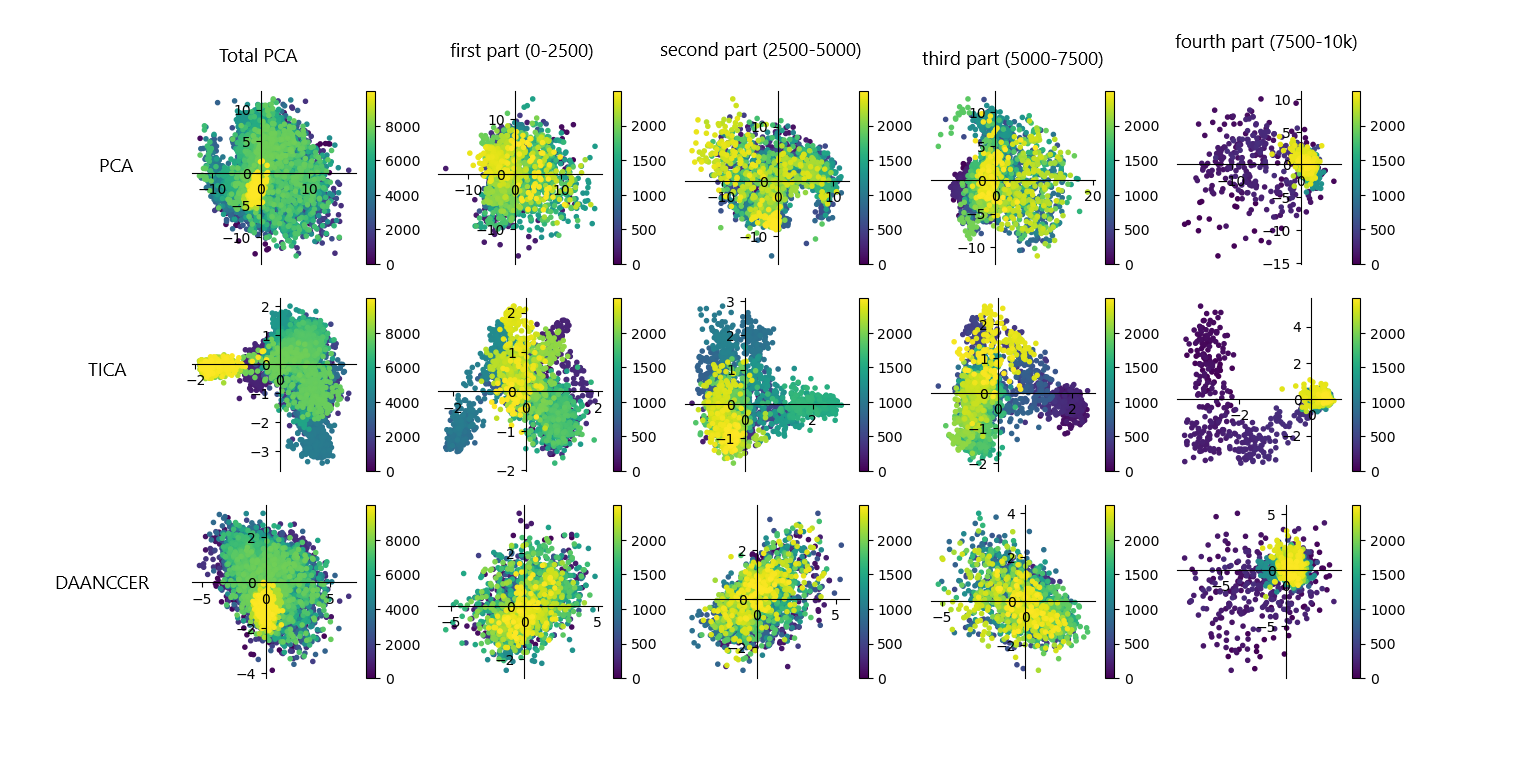
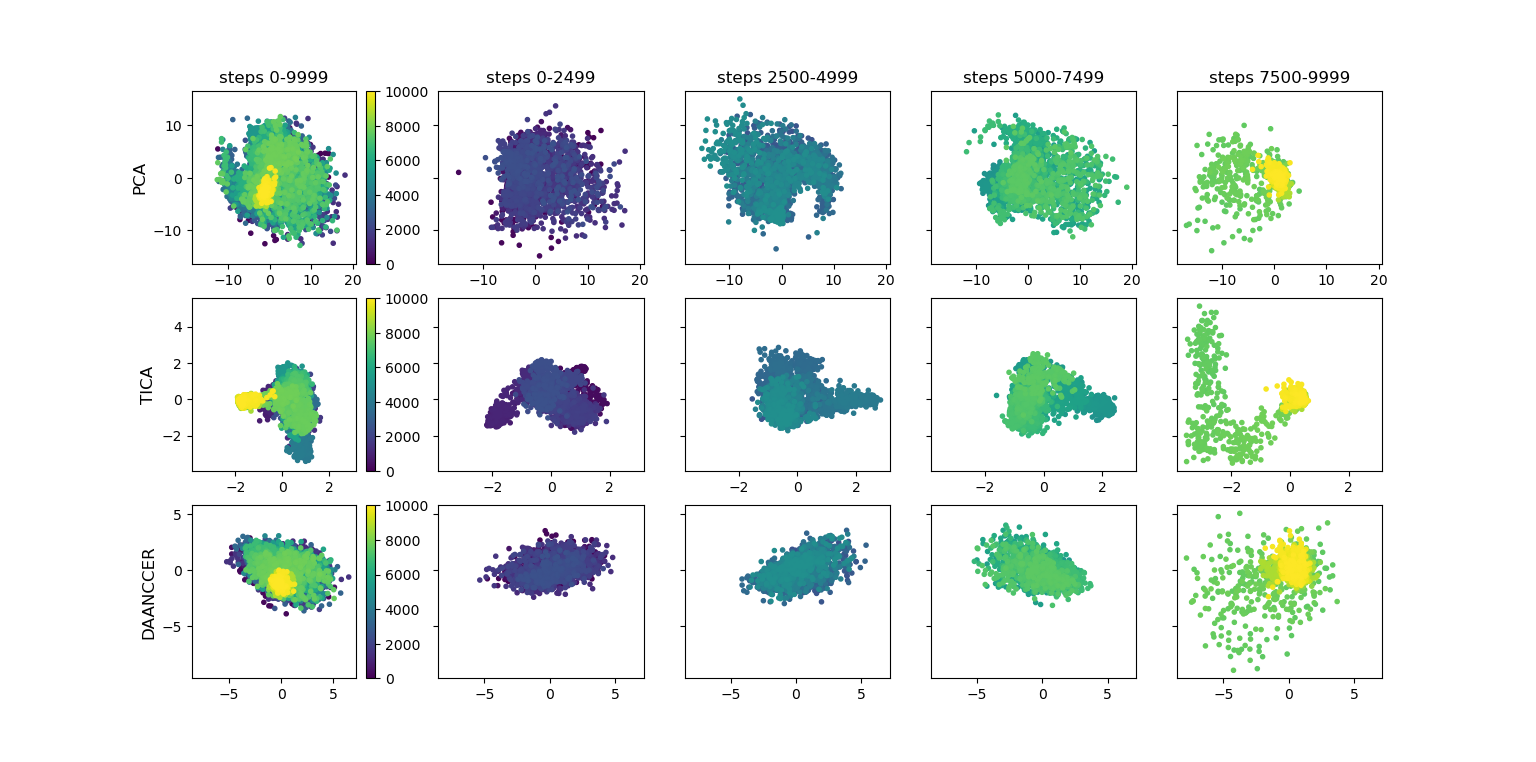
Changing plot of subtrajectories

diff --git a/plotter.py b/plotter.py
@@ -11,13 +11,13 @@ from utils.param_keys.param_key import *
 
 
 class MyPlotter:
-    def __init__(self, interactive=True, title_prefix='', for_paper=False):
+    def __init__(self, interactive: bool = True, title_prefix: str = '', for_paper: bool = False):
         self.fig = None
         self.axes = None
-        self.interactive = interactive
-        self.title_prefix = title_prefix
+        self.interactive: bool = interactive
+        self.title_prefix: str = title_prefix
         self.colors = mcolors.TABLEAU_COLORS
-        self.for_paper = for_paper
+        self.for_paper: bool = for_paper
 
         if self.interactive:
             mpl.use('TkAgg')
@@ -182,7 +182,7 @@ class ModelResultPlotter(MyPlotter):
         plt.show()
 
     def _plot_transformed_trajectory(self, ax, result_dict: dict, color_map: str, show_model_properties=False,
-                                     center_plot=False):
+                                     center_plot=False, sub_part=None):
         """
         Plot the projection results of the transformed trajectory on an axis
         :param ax: Which axis the result should be plotted on
@@ -201,21 +201,29 @@ class ModelResultPlotter(MyPlotter):
                          fontsize=8, wrap=True)
             ax.set_xlabel('1st component')
             ax.set_ylabel('2nd component')
+            self._print_model_properties(result_dict)
         else:
             pass  # TODO: show axes of all
 
         if color_map == COLOR_MAP:
-            color_array = np.arange(result_dict[PROJECTION].shape[0])
+            if sub_part is None:
+                color_array = np.arange(result_dict[PROJECTION].shape[0])
+            else:
+                shape = result_dict[PROJECTION].shape[0]
+                color_array = np.arange((sub_part-1)*shape, sub_part*shape)
+
+            if ax.get_subplotspec().is_first_col():
+                ax.set_ylabel(str(result_dict[MODEL]).split('(')[DUMMY_ZERO], size='large')
+            if ax.get_subplotspec().is_first_row():
+                ax.set_title(f'steps {color_array[0]}-{color_array[-1]}')
+
             c_map = plt.cm.viridis
             im = ax.scatter(result_dict[PROJECTION][:, 0], result_dict[PROJECTION][:, 1], c=color_array,
-                            cmap=c_map, marker='.')
-            if not self.for_paper:
+                            cmap=c_map, vmin=0, vmax=10000, marker='.')
+            if not self.for_paper and ax.get_subplotspec().is_first_col():
                 self.fig.colorbar(im, ax=ax)
         else:
             ax.scatter(result_dict[PROJECTION][:, 0], result_dict[PROJECTION][:, 1], marker='.')
-
-        if show_model_properties:
-            self._print_model_properties(result_dict)
 
         if center_plot:
             # Move left y-axis and bottom x-axis to centre, passing through (0,0)
@@ -231,8 +239,7 @@ class ModelResultPlotter(MyPlotter):
             ax.xaxis.set_ticks_position('bottom')
             ax.yaxis.set_ticks_position('left')
         else:
-            ax.tick_params(left=False, right=False, labelleft=False,
-                           labelbottom=False, bottom=False)
+            pass  # ax.tick_params(left=False, right=False, labelleft=False, labelbottom=False, bottom=False)
 
     @staticmethod
     def _plot_time_tics(ax, projection, component):
@@ -286,15 +293,18 @@ class ModelResultPlotter(MyPlotter):
             print('{}: {}'.format(e, model))
 
     def plot_multi_projections(self, model_result_list_in_list, plot_type, center_plot=True):
-        self.fig, self.axes = plt.subplots(len(model_result_list_in_list), len(model_result_list_in_list[DUMMY_ZERO]))
+        # noinspection PyTypeChecker
+        self.fig, self.axes = plt.subplots(len(model_result_list_in_list), len(model_result_list_in_list[DUMMY_ZERO]),
+                                           sharex='row', sharey='row')
         for row_index, model_results in enumerate(model_result_list_in_list):
             if len(model_results) == 1:
                 self._plot_transformed_trajectory(self.axes[row_index], model_results[DUMMY_ZERO], color_map=plot_type,
                                                   center_plot=center_plot)
             else:
                 for column_index, result in enumerate(model_results):
+                    sub_part = None if column_index == 0 else column_index
                     self._plot_transformed_trajectory(self.axes[row_index][column_index], result, color_map=plot_type,
-                                                      center_plot=center_plot)
+                                                      center_plot=center_plot, sub_part=sub_part)
         self._post_processing()
 
 

diff --git a/analyse.py b/analyse.py
@@ -111,7 +111,7 @@ class SingleTrajectoryAnalyser:
                 total_result = [self.trajectory.get_model_result(model_params)]
                 total_result = total_result + self.trajectory.get_sub_results(model_params)
                 results.append(total_result)
-            ModelResultPlotter(self.trajectory).plot_multi_projections(results, self.params[PLOT_TYPE], True)
+            ModelResultPlotter().plot_multi_projections(results, self.params[PLOT_TYPE], center_plot=False)
         else:
             raise InvalidDataTrajectory(f'Data trajectory is invalid. Use a subset trajectory to ')
 

diff --git a/utils/algorithms/tensor_dim_reductions/daanccer.py b/utils/algorithms/tensor_dim_reductions/daanccer.py
@@ -68,12 +68,13 @@ class DAANCCER(TensorDR):
                           f'but the `{LAG_TIME}` is not set is equal to: {self.lag_time}')
 
     def __str__(self):
-        sb = self.describe()
+        sb = 'DAANCCER('
+        # sb = self.describe()
         sb += f'\nPCs={self.n_components}'
         sb += f'lag-time={self.lag_time}, ' if self.lag_time > 0 else ''
         # sb += '\n'
         # sb += f'abs_ew_sorting={self.abs_eigenvalue_sorting}, '
-        return sb
+        return sb + ')'
         # f'{function_name(self.cov_function)}'
 
     def describe(self):
